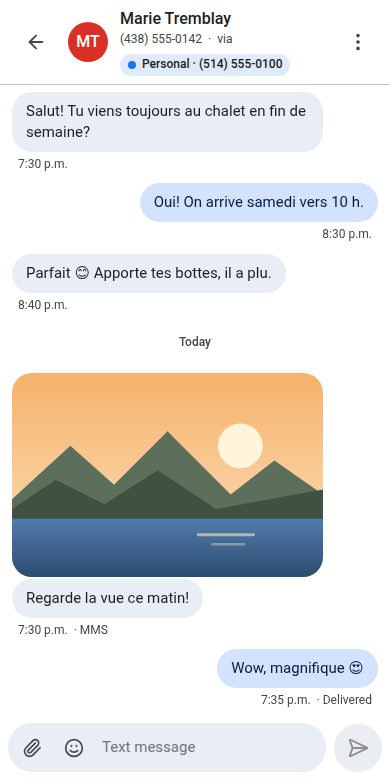
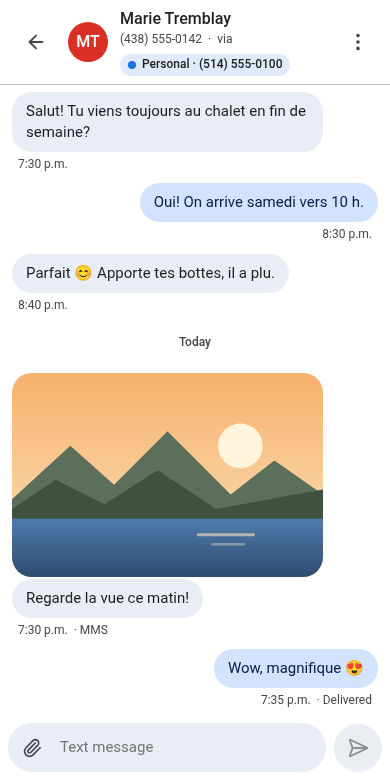
No emoji button in the message box on phones
Phones and tablets have emoji on their keyboard, so the button only took
room from the message box there. It stays where the pointer is a mouse.

diff --git a/web/src/components/Composer.tsx b/web/src/components/Composer.tsx
@@ -182,17 +182,20 @@ export function Composer({
               >
                 <Paperclip size={20} />
               </button>
-              <button
-                className="icon-btn"
-                data-emoji-toggle
-                aria-label={t('composer.emoji')}
-                title={t('composer.emoji')}
-                aria-expanded={emojiOpen}
-                disabled={disabled}
-                onClick={() => setEmojiOpen((open) => !open)}
-              >
-                <Smile size={20} />
-              </button>
+              {/* Phones and tablets have emoji on their keyboard. */}
+              {!coarsePointer && (
+                <button
+                  className="icon-btn"
+                  data-emoji-toggle
+                  aria-label={t('composer.emoji')}
+                  title={t('composer.emoji')}
+                  aria-expanded={emojiOpen}
+                  disabled={disabled}
+                  onClick={() => setEmojiOpen((open) => !open)}
+                >
+                  <Smile size={20} />
+                </button>
+              )}
               <input
                 ref={fileInput}
                 type="file"

diff --git a/CHANGELOG.md b/CHANGELOG.md
@@ -2,6 +2,10 @@
 
 All notable changes to this project. Versions follow [Semantic Versioning](https://semver.org/); the running version is shown at the bottom of *Settings*.
 
+## Unreleased
+
+- On phones and tablets, the message box no longer has an emoji button: their keyboard has emoji already, and the box keeps the room.
+
 ## 2.0.1 (2026-11-01)
 
 - **Texting short codes.** A text can now go to a 5- or 6-digit short code, for the services that answer a keyword (transit times, for instance), from a conversation it started or from *Start a conversation*. The portal refused them as an invalid number ([#24](https://github.com/dansleboby/voip-ms-sms-portal/issues/24)).
